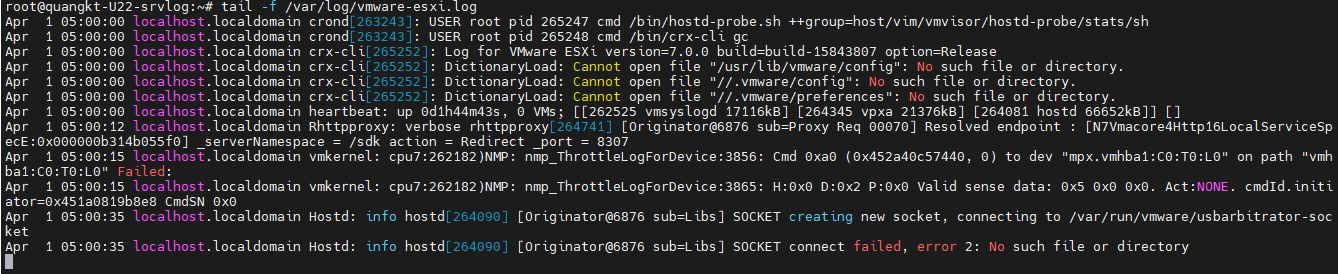
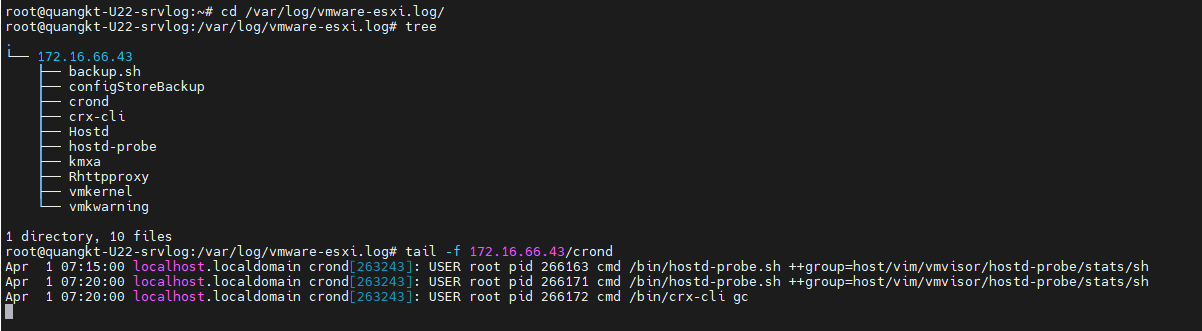
update

Changed region(s): [[0.0, 0.0, 1.0, 0.9927]]

diff --git a/thuctap/06-VM-ESX/Log-Server/logserver.md b/thuctap/06-VM-ESX/Log-Server/logserver.md
@@ -37,17 +37,20 @@ IP planning
   ```
 - Thêm nội dung sau vào cuối file 
   ```
+  # esxi log
   $ModLoad imudp
-  $UDPpoolRun 514
+  $UDPServerRun 514
   #Storing Messages from a Remote System into a specific File
-  if $fromhost-ip startswith '172.16.66.43' then /var/log/vmware-esxi.log
+  $template RemoteServer, "/var/log/vmware-esxi.log/%fromhost-ip%/%programname%"
+  if $fromhost-ip startswith '172.16.66.43' then ?RemoteServer
   & ~
   ```
   ![Alt](/thuctap/anh/Screenshot_987.png)
 - Giải thích 
   - `$ModLoad imudp` : sử dụng udp để lắng nghe , thu thập log
   - `$UDPpoolRun 514` : sử dụng port 514 với giao thức udp
-  - `if $fromhost-ip startswith '172.16.66.43' then /var/log/vmware-esxi.log` : Nếu các gói tin có nguồn từ từ ip 172.16.66.43 thì lưu vào file log `/var/log/vmware-esxi.log`
+  - `$template RemoteServer, "/var/log/vmware-esxi.log/%fromhost-ip%/%programname%"` : định nghĩa cấu trúc lưu file log
+  - `if $fromhost-ip startswith '172.16.66.43' then ?RemoteServer` : Nếu các gói tin có nguồn từ từ ip 172.16.66.43 thì lưu log theo template ở bước trước
 - Ta tiến hành restart lại dịch vụ `rsyslog`
   ```
   systemctl restart rsyslog
@@ -75,7 +78,8 @@ IP planning
 ## 4. Kiểm tra kết quả
 - Ta tiến hành vào log server để xem log đã được đẩy sang chưa
   ```
-  tail -f /var/log/vmware-esxi.log
+  cd /var/log/vmware-esxi.log
+  tree
   ```
   ![Alt](/thuctap/anh/Screenshot_989.png)
 - Ta sẽ dùng tcpdump bắt các gói tin từ port 514 rồi kiểm tra bằng wireshark
